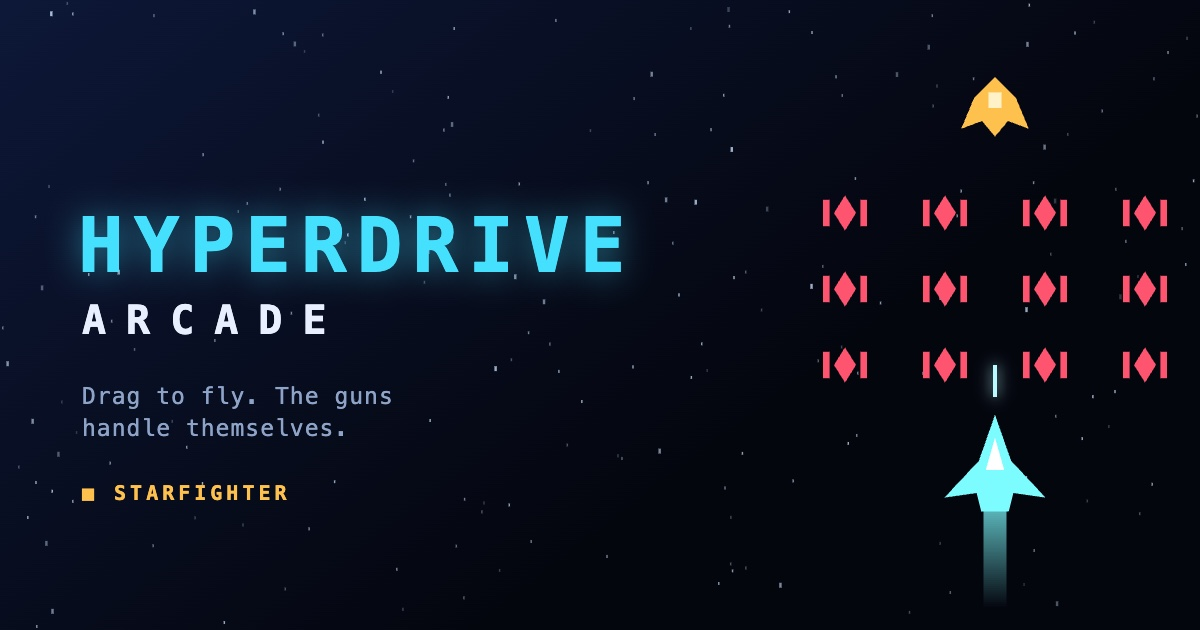
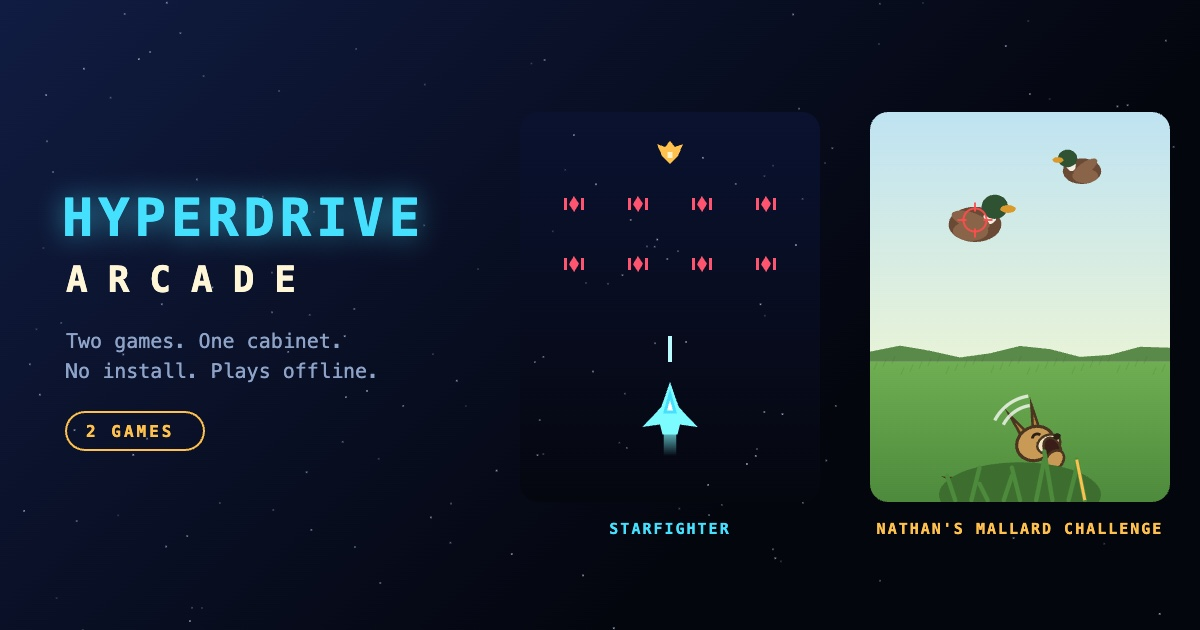
Make the dog's laugh a real moment, and put both games on the share card
The laugh was too polite. On the NES it was the thing everyone remembers
-- the dog rearing up huge, unavoidable -- and mine popped up at normal
size in the corner of the field. He now rises from fully offscreen to
3.7x scale in the foreground, the world dims behind him with a focus
vignette, "HA HA HA!" pops in on the beat, and the fail phase holds for
2.7s versus 1.7s for a win so the joke has room to land.

Also fixes a real gap: the dogLaugh sound was defined in core/audio.ts
back when the game was built and never actually played -- the fail only
triggered the generic sting. It now fires the instant he reaches full
height, so the sound lands with the pose rather than with the round
resolving.

Share card is now an arcade marquee rather than a single-game splash:
the wordmark and a "2 GAMES" badge on the left, and both cabinets on the
right rendered with the games' own draw functions, so the card can't
drift out of sync with what the games actually look like. Wordmark
resized to clear the cabinets -- at the previous size it collided with
the first one and clipped the tagline. og:description and image alt text
updated to name both games.

diff --git a/src/games/mallard/index.ts b/src/games/mallard/index.ts
@@ -43,10 +43,18 @@ const DOUBLE_DUCK_ROUND = 4;
 const ESCAPE_AGE = 5.5;
 const HIT_RADIUS = 18;
 const BANNER_DURATION = 1.3;
-/** How long the dog's success/fail animation holds before the next round. */
-const RESOLVE_DURATION = 1.8;
+/** How long the dog's retrieve animation holds before the next round. */
+const SUCCESS_DURATION = 1.7;
+/**
+ * The mocking laugh gets noticeably longer than the win. On the NES this was
+ * the moment everyone remembers -- the dog filling the screen, unavoidable --
+ * so it's given room to land rather than being rushed past.
+ */
+const FAIL_DURATION = 2.7;
 /** The dog is drawn at this multiple of his base art size. */
 const DOG_SCALE = 1.55;
+/** ...and much larger for the laugh, where he takes over the screen. */
+const LAUGH_SCALE = 3.7;
 
 // The dog's opening routine, in seconds. Ducks go up at the end of the leap.
 const WALK_TIME = 1.0;
@@ -95,6 +103,8 @@ class MallardChallenge implements GameInstance {
   private dogPose: DogPose = "walking";
   private dogPoseTime = 0;
   private introTimer = 0;
+  /** Guards the one-shot laugh sound so it fires on the pose, not the frame. */
+  private laughed = false;
   private dogDrawX = 0;
   /** Vertical offset used to pop the dog up out of, and back into, cover. */
   private dogDrawY = 0;
@@ -208,7 +218,7 @@ class MallardChallenge implements GameInstance {
     } else {
       this.phaseTime += dt;
       this.updateDogPopup();
-      if (this.phaseTime > RESOLVE_DURATION) this.advanceAfterResolve();
+      if (this.phaseTime > this.resolveDuration()) this.advanceAfterResolve();
     }
   }
 
@@ -249,14 +259,30 @@ class MallardChallenge implements GameInstance {
 
   /** Rise out of cover for the reaction, then drop back before the next round. */
   private updateDogPopup(): void {
-    const RISE = 0.25;
-    const SINK_AT = RESOLVE_DURATION - 0.3;
-    if (this.phaseTime < RISE) {
-      this.dogDrawY = 34 * (1 - this.phaseTime / RISE);
-    } else if (this.phaseTime > SINK_AT) {
-      this.dogDrawY = 34 * ((this.phaseTime - SINK_AT) / 0.3);
+    const laughing = this.phase === "fail";
+    // The laugh climbs from fully offscreen; the retrieve is a modest bob.
+    const travel = laughing ? 190 : 34;
+    const rise = laughing ? 0.34 : 0.25;
+    const total = this.resolveDuration();
+    const sinkAt = total - 0.35;
+
+    if (this.phaseTime < rise) {
+      const p = this.phaseTime / rise;
+      // Ease out with a slight overshoot so he lands with a bit of weight.
+      const eased = 1 - Math.pow(1 - p, 3);
+      this.dogDrawY = travel * (1 - eased);
+    } else if (this.phaseTime > sinkAt) {
+      this.dogDrawY = travel * ((this.phaseTime - sinkAt) / 0.35);
     } else {
       this.dogDrawY = 0;
+    }
+
+    // Fire the laugh the instant he's fully up, not when the round resolved --
+    // the sound has to land with the pose.
+    if (laughing && !this.laughed && this.phaseTime >= rise) {
+      this.laughed = true;
+      this.host.sfx("dogLaugh");
+      this.host.shake(7);
     }
   }
 
@@ -350,12 +376,17 @@ class MallardChallenge implements GameInstance {
     this.phaseTime = 0;
     this.dogPose = this.roundFailed ? "laugh" : "retrieve";
     this.dogPoseTime = 0;
+    this.laughed = false;
     this.host.sfx(this.roundFailed ? "roundFail" : "roundClear");
     if (this.roundFailed) {
       this.lives -= 1;
       this.host.shake(4);
     }
     this.refreshFireButton(this.fireButton);
+  }
+
+  private resolveDuration(): number {
+    return this.phase === "fail" ? FAIL_DURATION : SUCCESS_DURATION;
   }
 
   private advanceAfterResolve(): void {
@@ -437,20 +468,24 @@ class MallardChallenge implements GameInstance {
       drawDuck(ctx, duck.x, duck.y, duck.vx, duck.flapPhase, duck.falling);
     }
 
-    drawDog(
-      ctx,
-      this.dogDrawX,
-      this.dogY + this.dogDrawY,
-      this.dogPose,
-      this.dogPoseTime,
-      DOG_SCALE,
-    );
+    if (this.phase === "fail") {
+      this.drawLaughMoment(ctx);
+    } else {
+      drawDog(
+        ctx,
+        this.dogDrawX,
+        this.dogY + this.dogDrawY,
+        this.dogPose,
+        this.dogPoseTime,
+        DOG_SCALE,
+      );
 
-    // Cover drawn *over* the dog, so a head poking out of the grass reads as
-    // hiding in it rather than floating above it. Also masks the bottom of
-    // the pop-up poses as he rises and sinks.
-    if (this.phase !== "intro") {
-      drawGrassTuft(ctx, this.dogDrawX, this.dogY + 16, DOG_SCALE);
+      // Cover drawn *over* the dog, so a head poking out of the grass reads as
+      // hiding in it rather than floating above it. Also masks the bottom of
+      // the pop-up poses as he rises and sinks.
+      if (this.phase !== "intro") {
+        drawGrassTuft(ctx, this.dogDrawX, this.dogY + 16, DOG_SCALE);
+      }
     }
 
     this.particles.render(ctx);
@@ -472,6 +507,54 @@ class MallardChallenge implements GameInstance {
       this.drawBanner(ctx, "MISSED!");
     } else if (this.phase === "success" && this.phaseTime < 1) {
       this.drawBanner(ctx, "CLEAR!");
+    }
+  }
+
+  /**
+   * The moment the whole game is built around: the dog rears up huge in the
+   * foreground and laughs at you. Staged rather than just scaled -- the world
+   * dims behind him so there's nowhere else to look.
+   */
+  private drawLaughMoment(ctx: CanvasRenderingContext2D): void {
+    const { w, h } = this.host.view;
+    const originY = this.grassTop + 88 + this.dogDrawY;
+
+    // Dim everything except him.
+    const focus = ctx.createRadialGradient(
+      w / 2,
+      originY - 30,
+      40,
+      w / 2,
+      originY - 30,
+      Math.max(w, h) * 0.62,
+    );
+    focus.addColorStop(0, "rgba(0,0,0,0)");
+    focus.addColorStop(1, "rgba(6,10,4,0.5)");
+    ctx.fillStyle = focus;
+    ctx.fillRect(0, 0, w, h);
+
+    // Nudged left of centre: the head sits well right of the body origin, so
+    // drawing at dead centre leaves the whole silhouette leaning right.
+    const dogX = w / 2 - 20;
+    drawDog(ctx, dogX, originY, "laugh", this.dogPoseTime, LAUGH_SCALE);
+    // Grass in front of him, so he reads as rearing up out of the field.
+    drawGrassTuft(ctx, dogX + 10, originY + 34, LAUGH_SCALE * 1.15);
+
+    // The taunt, popping in just after he lands.
+    if (this.phaseTime > 0.36) {
+      const pop = Math.min(1, (this.phaseTime - 0.36) * 6);
+      ctx.save();
+      ctx.translate(w / 2 - 4, originY - 118);
+      ctx.rotate(-0.12 + Math.sin(this.phaseTime * 18) * 0.02);
+      ctx.scale(pop, pop);
+      ctx.font = '700 26px ui-monospace, "SF Mono", Menlo, monospace';
+      ctx.textAlign = "center";
+      ctx.lineWidth = 5;
+      ctx.strokeStyle = "#2a1d10";
+      ctx.strokeText("HA HA HA!", 0, 0);
+      ctx.fillStyle = "#fff6d8";
+      ctx.fillText("HA HA HA!", 0, 0);
+      ctx.restore();
     }
   }
 

diff --git a/index.html b/index.html
@@ -26,7 +26,7 @@
     <meta property="og:title" content="Hyperdrive Arcade" />
     <meta
       property="og:description"
-      content="A pocket arcade. Drag to fly, the guns handle themselves. Add it to your home screen and chase the high score."
+      content="Two games, one pocket cabinet. Fly the resistance starfighter, or take on Nathan's Mallard Challenge. Add it to your home screen and chase the high score."
     />
     <meta property="og:url" content="https://play.hyperdrive-arcade.workers.dev/" />
     <meta
@@ -36,13 +36,16 @@
     <meta property="og:image:type" content="image/jpeg" />
     <meta property="og:image:width" content="1200" />
     <meta property="og:image:height" content="630" />
-    <meta property="og:image:alt" content="Hyperdrive Arcade — a starfighter facing a formation of enemy ships" />
+    <meta
+      property="og:image:alt"
+      content="Hyperdrive Arcade — two game cabinets side by side: Starfighter, and Nathan's Mallard Challenge"
+    />
 
     <meta name="twitter:card" content="summary_large_image" />
     <meta name="twitter:title" content="Hyperdrive Arcade" />
     <meta
       name="twitter:description"
-      content="A pocket arcade. Drag to fly, the guns handle themselves."
+      content="Two games, one pocket cabinet. Starfighter and Nathan's Mallard Challenge."
     />
     <meta
       name="twitter:image"
